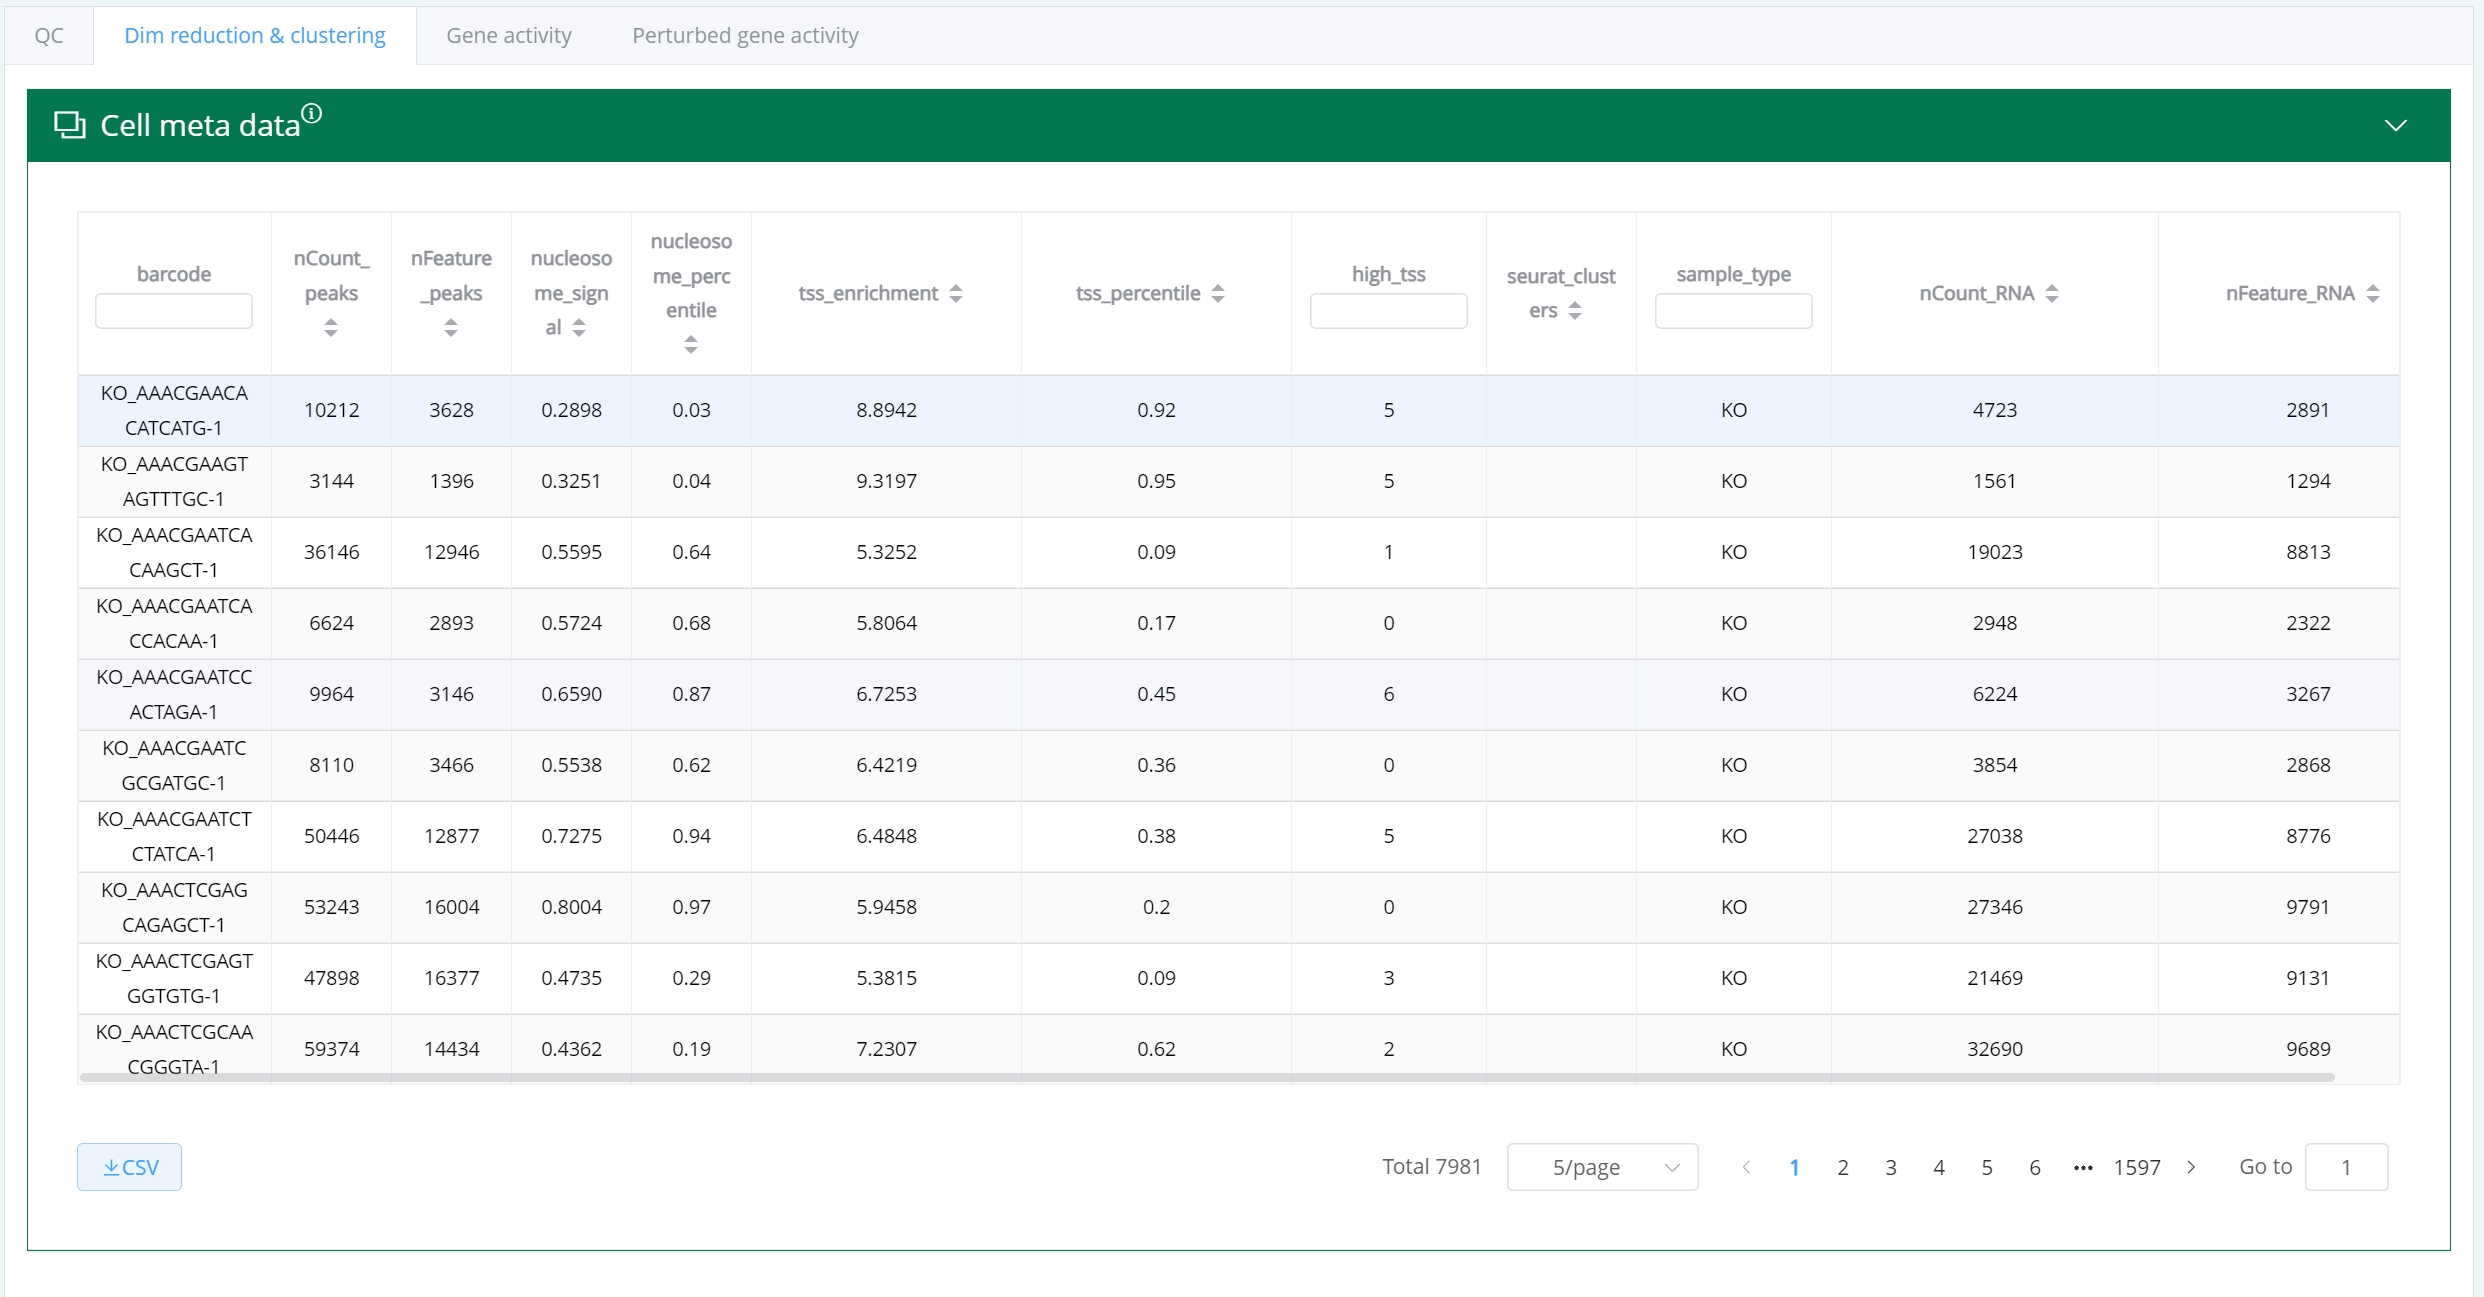
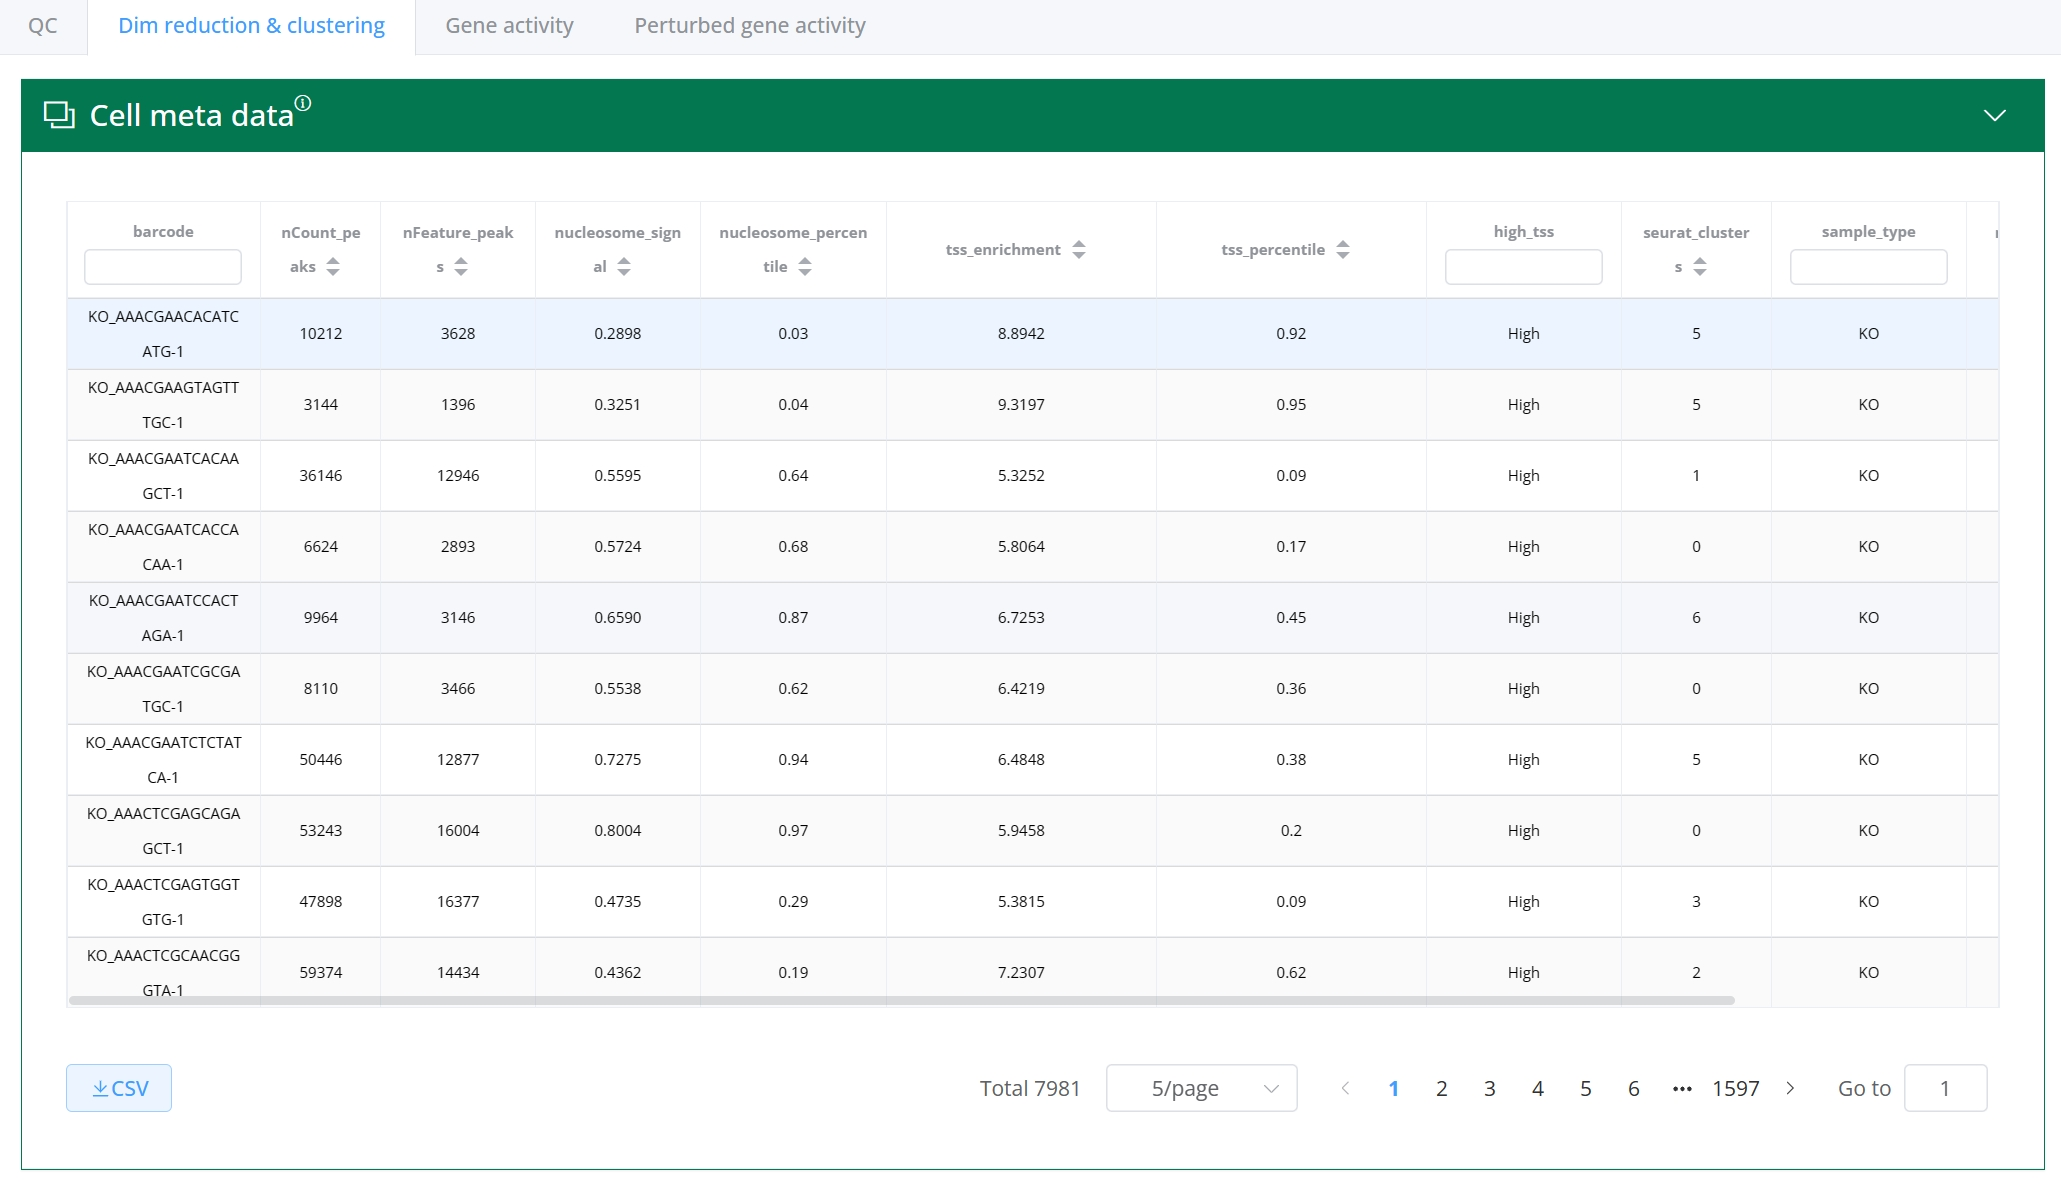
修复降维数据表bug

diff --git a/src/views/detail/Dim_reduction_clustering.vue b/src/views/detail/Dim_reduction_clustering.vue
@@ -117,14 +117,14 @@
               </template>
             </el-table-column>
 
-            <el-table-column prop="seurat_clusters" label="Motif" align="center" width="130px">
+            <el-table-column prop="high_tss" label="Motif" align="center" width="130px">
               <template #header>
                 <div>high_tss</div>
                 <el-input v-model.trim="filter.motif" size="small" @keyup="onSubmit"></el-input>
               </template>
             </el-table-column>
 
-            <el-table-column prop="tc_seurat_clustersctrl" label="TC Ctrl" :sortable="'custom'" align="center" width="100px">
+            <el-table-column prop="seurat_clusters" label="TC Ctrl" :sortable="'custom'" align="center" width="100px">
               <template #header>
                 <el-popover placement="bottom" :width="120" trigger="hover">
                   <template #reference>
